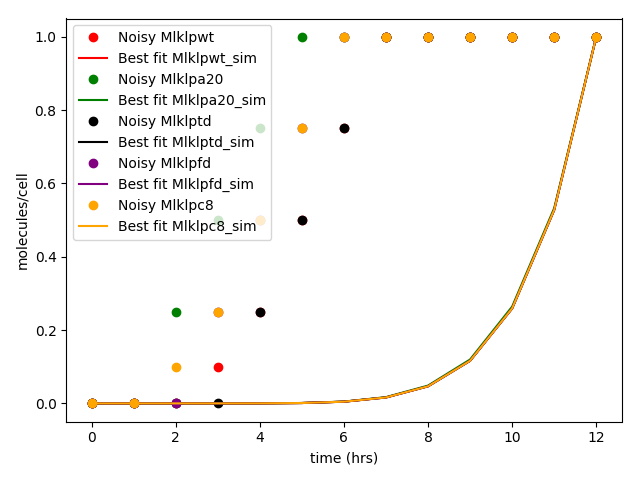
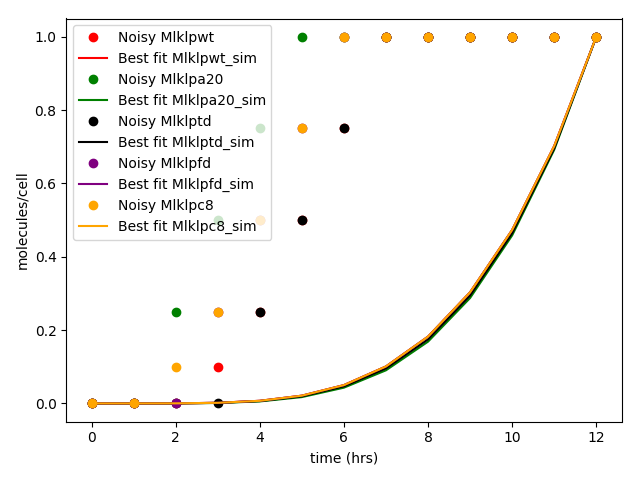
calibration file not working properly, not sure why, removing repository to re clone

diff --git a/simplepso/examples/pso_necro_ko.py b/simplepso/examples/pso_necro_ko.py
@@ -50,7 +50,7 @@ a20y = np.array([0.,0., 0.25, 0.5, 0.75, 1., 1., 1., 1., 1., 1., 1., 1.])
 
 #Tradd data switching at 5
 tdx = np.array([0.,   1.,   2.,   3.,   4.,   5.,   6.,   7.,   8.,   9.,  10., 11.,  12.])
-tdy = np.array([0., 0., 0., 0., 0.25, 0.5, 0.75, 1., 1., 1., 1., 1., 1.])
+tdy = np.array([0., 0., 0., 0.10, 0.25, 0.5, 0.75, 1., 1., 1., 1., 1., 1.])
 
 #Fadd Data switching at 4 hours
 fdx = np.array([0.,   1.,   2.,   3.,   4.,   5.,   6.,   7.,   8.,   9.,  10., 11.,  12.])
